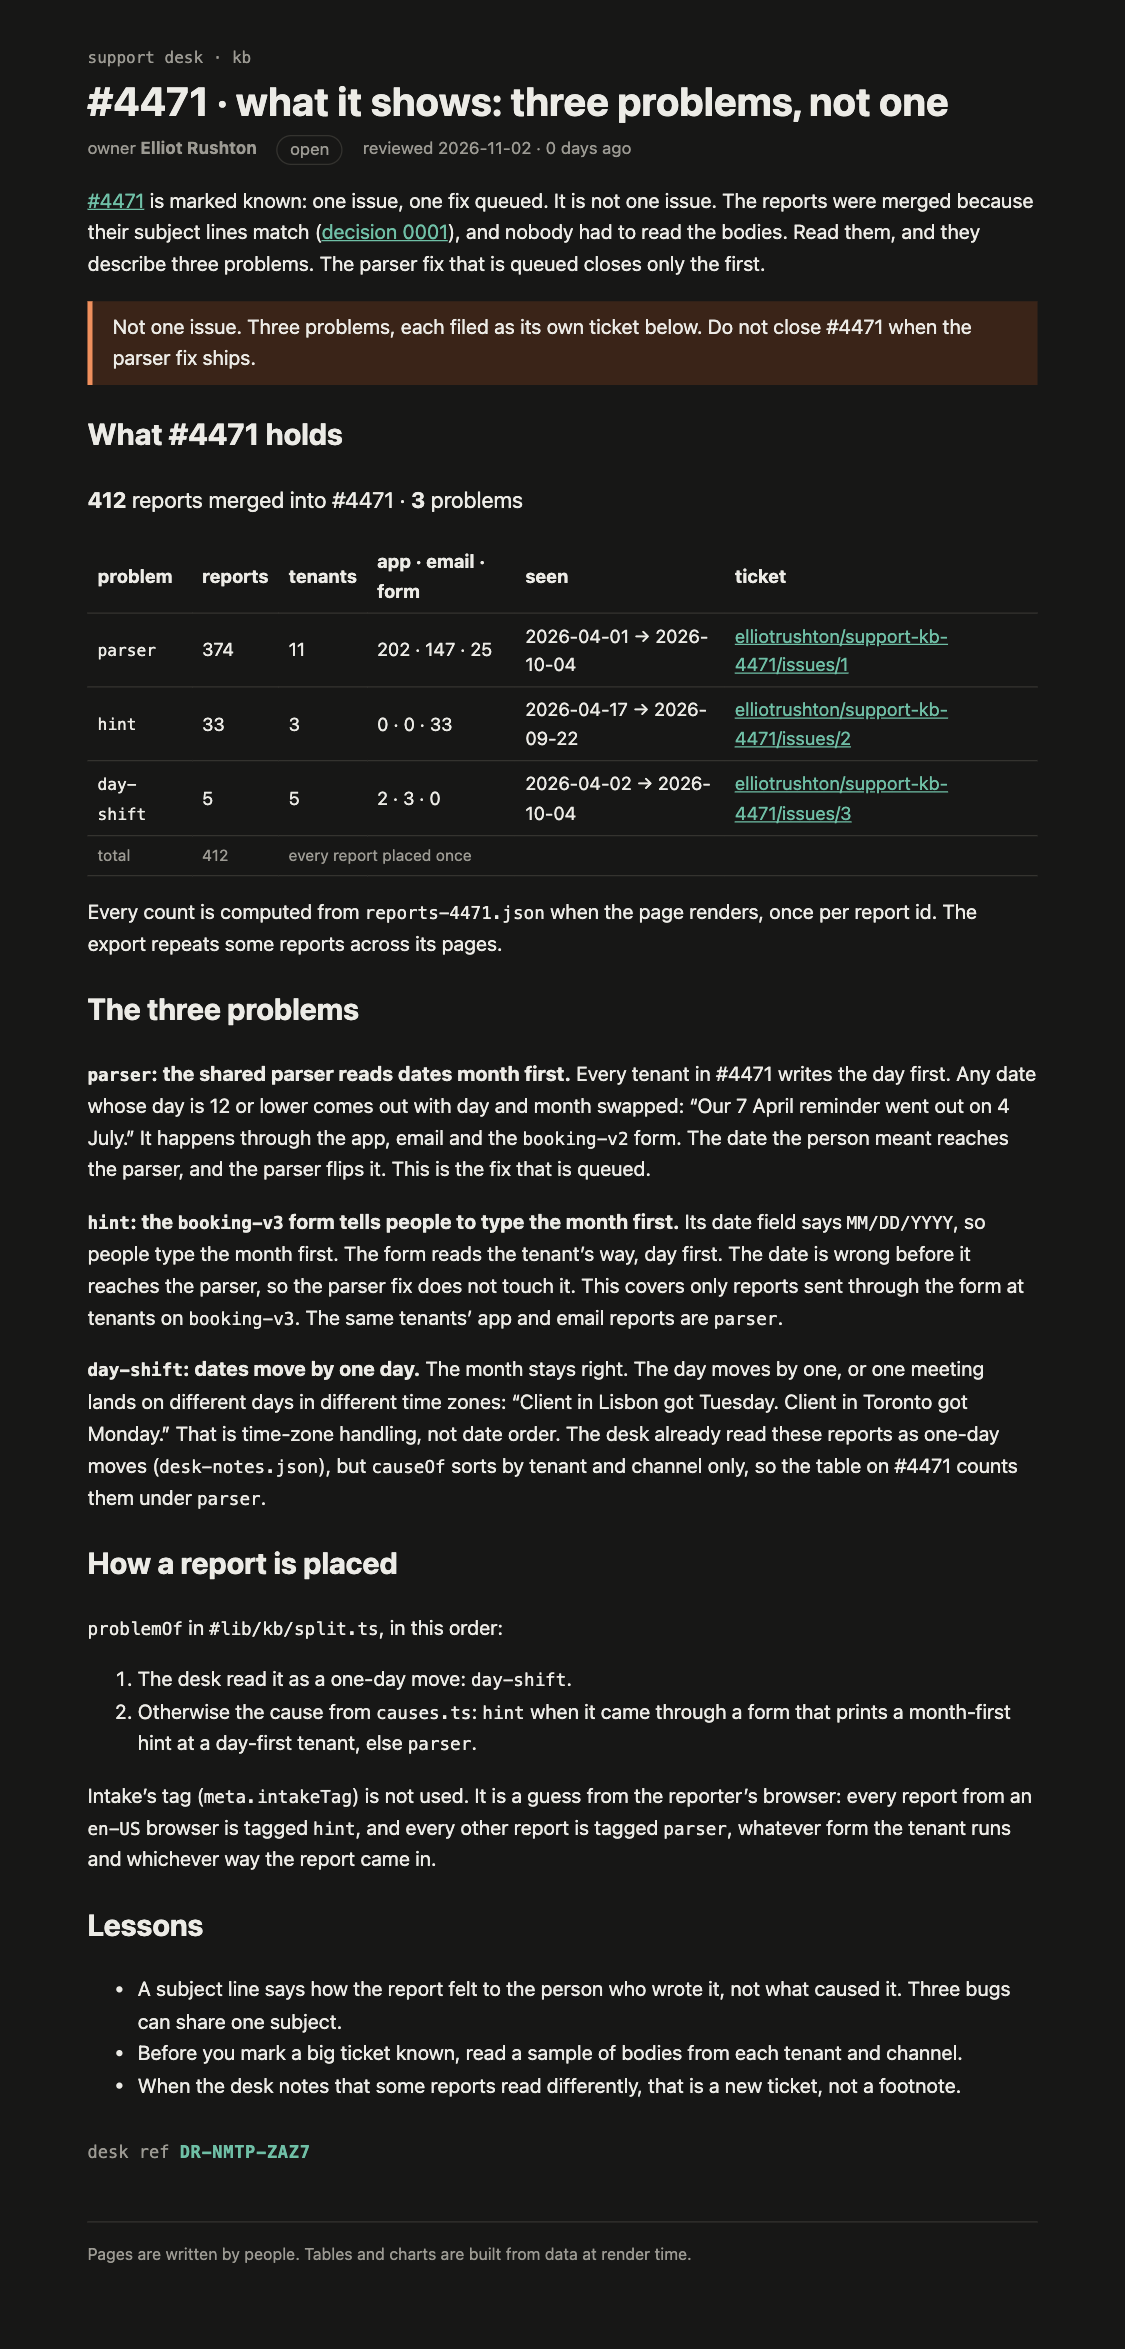
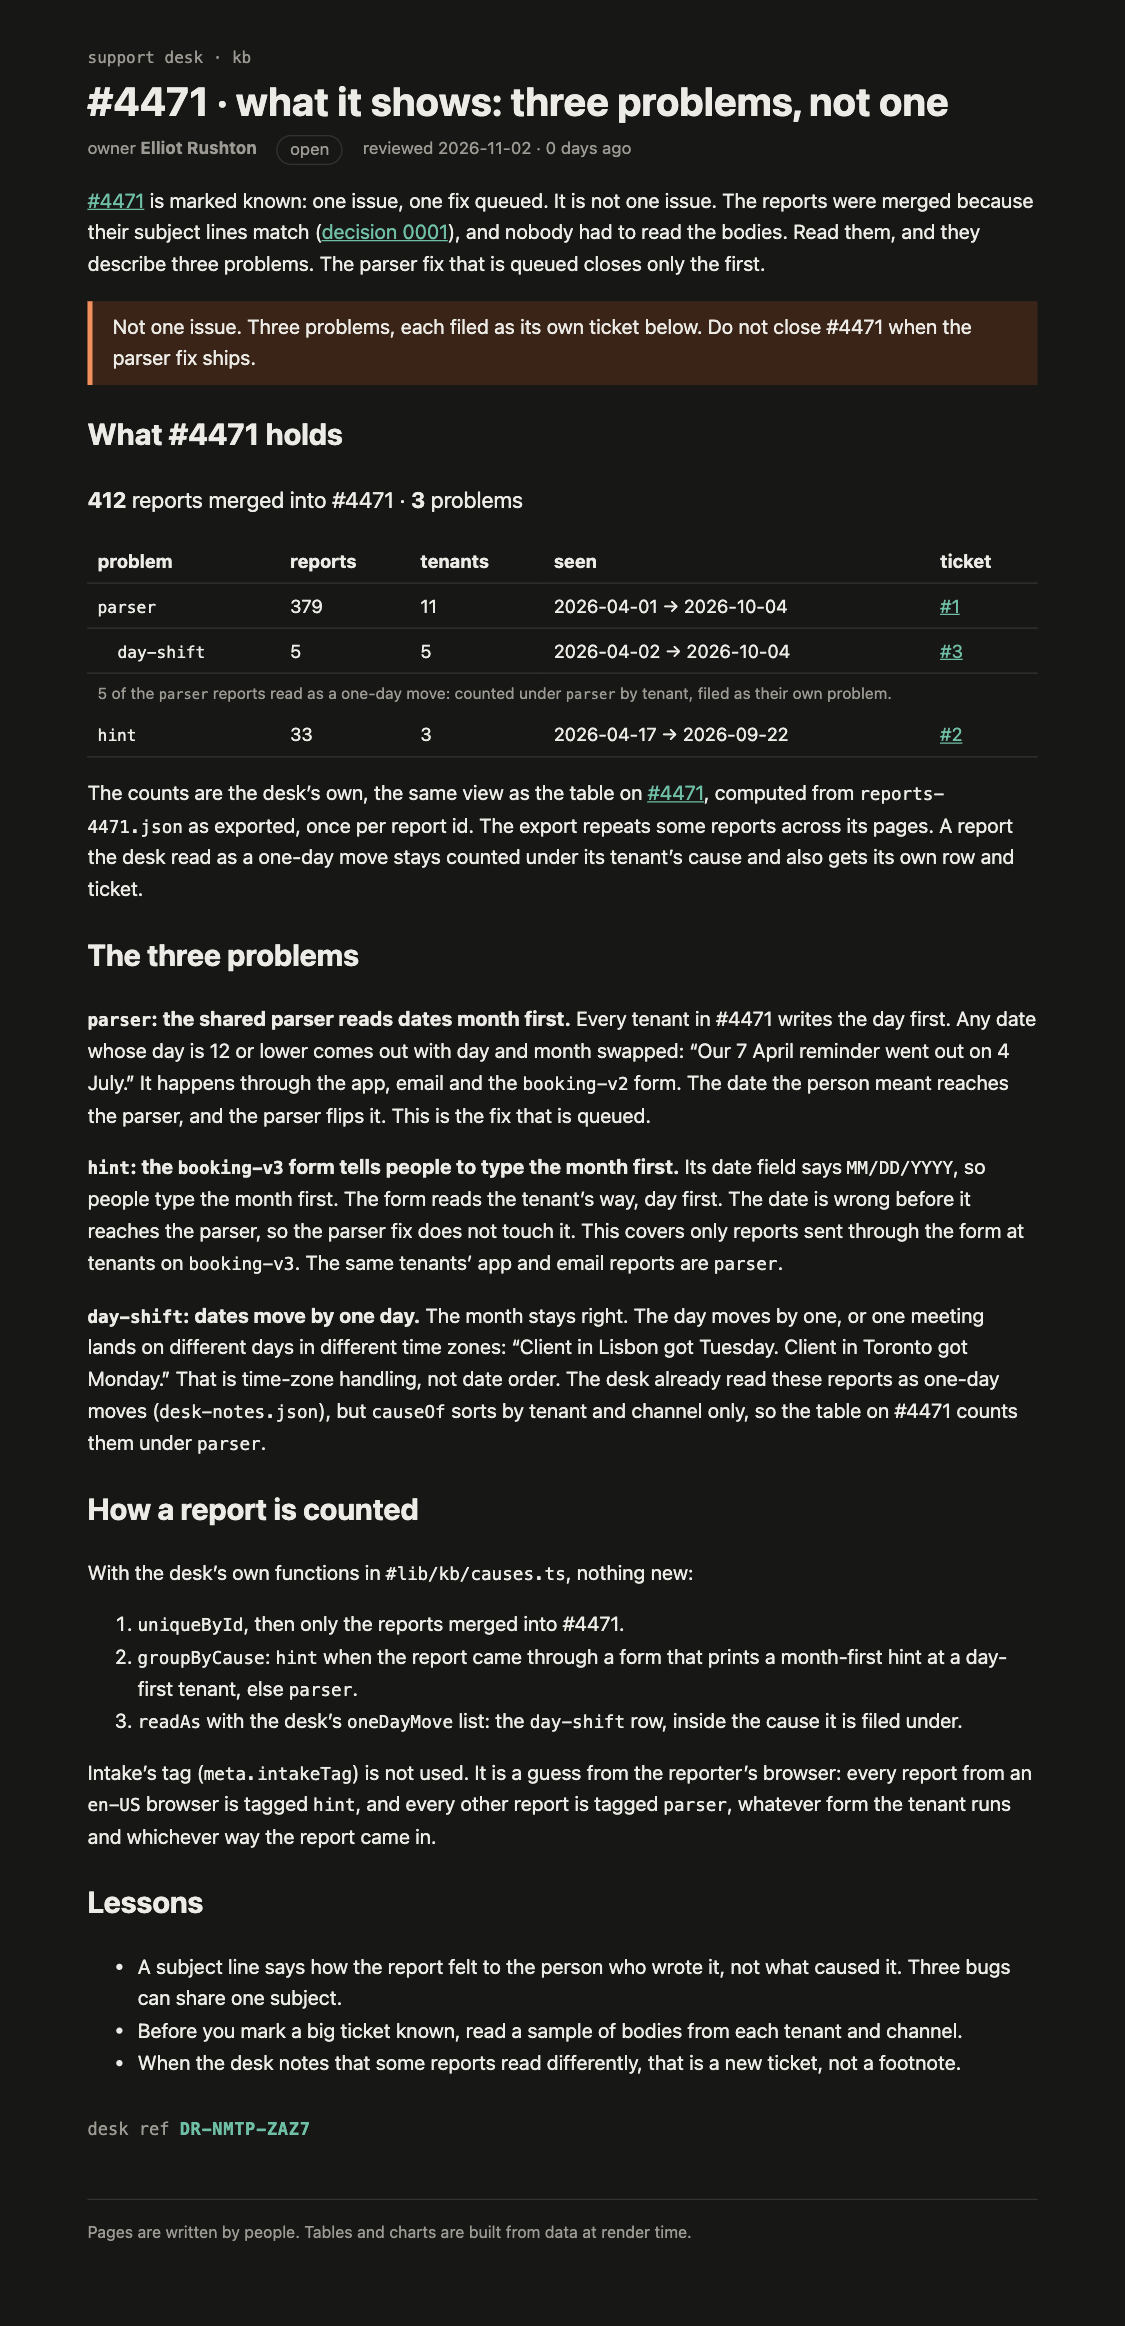
kb: count #4471 split with the desk's own view (groupByCause + readAs)

diff --git a/rendered/kb/incidents/4471/split.html b/rendered/kb/incidents/4471/split.html
@@ -2,18 +2,20 @@
 <html lang="en"><head><meta charset="utf-8" /><meta name="viewport" content="width=device-width, initial-scale=1" /><!--1ix7ub5--><!----><title>#4471 · what it shows: three problems, not one · support kb</title>
 		<style>:root{--bg: #fbfaf7;--fg: #1d1d1b;--muted: #6b6a66;--line: #e3e0d8;--accent: #2f6f5e;--warn: #b4501f;--warn-bg: #fbeee6;--note-bg: #eef5f2;--mono: ui-monospace, "Cascadia Code", Menlo, monospace}@media(prefers-color-scheme:dark){:root{--bg: #171716;--fg: #ecebe6;--muted: #9c9a93;--line: #34332f;--accent: #6fbfa6;--warn: #f0905d;--warn-bg: #3a2418;--note-bg: #1d2c27}}body{margin:0;background:var(--bg);color:var(--fg);font:16px/1.6 system-ui,sans-serif}.kb table{border-collapse:collapse;width:100%;margin:1rem 0;font-size:.92rem}.kb th,.kb td{border-bottom:1px solid var(--line);padding:.35rem .5rem;text-align:left}.kb code{font-family:var(--mono);font-size:.88em}.kb a{color:var(--accent)}.kb.svelte-1ix7ub5{max-width:760px;margin:0 auto;padding:2rem 16px 4rem}.crumb.svelte-1ix7ub5{font:.8rem var(--mono);text-decoration:none;color:var(--muted)}h1.svelte-1ix7ub5{margin:.25rem 0 .5rem;line-height:1.2}.meta.svelte-1ix7ub5{display:flex;flex-wrap:wrap;gap:.5rem 1rem;color:var(--muted);font-size:.85rem;margin:0}.status.svelte-1ix7ub5{border:1px solid var(--line);border-radius:99px;padding:0 .6rem}.stale.svelte-1ix7ub5{color:var(--warn);font-weight:600}.banner.svelte-1ix7ub5{background:var(--warn-bg);color:var(--warn);padding:.6rem 1rem;border-radius:6px}footer.svelte-1ix7ub5{margin-top:3rem;color:var(--muted);font-size:.8rem;border-top:1px solid var(--line);padding-top:1rem}
 
-.sum.svelte-7o017f{font-size:1.1rem}.open.svelte-7o017f td:where(.svelte-7o017f){background:var(--warn-bg)}.open.svelte-7o017f td:where(.svelte-7o017f):last-child{color:var(--warn);font-weight:600}tfoot.svelte-7o017f td:where(.svelte-7o017f){color:var(--muted);font-size:.85em}.stamp.svelte-hm5ikm{margin:2rem 0 0;font:.85rem var(--mono);color:var(--muted)}.stamp.svelte-hm5ikm b:where(.svelte-hm5ikm){color:var(--accent);letter-spacing:.04em}.missing.svelte-hm5ikm{color:var(--warn)}
+.sum.svelte-7o017f{font-size:1.1rem}.sub.svelte-7o017f td:where(.svelte-7o017f):first-child{padding-left:1.5rem}.note.svelte-7o017f td:where(.svelte-7o017f){color:var(--muted);font-size:.85em;border-bottom:none}.stamp.svelte-hm5ikm{margin:2rem 0 0;font:.85rem var(--mono);color:var(--muted)}.stamp.svelte-hm5ikm b:where(.svelte-hm5ikm){color:var(--accent);letter-spacing:.04em}.missing.svelte-hm5ikm{color:var(--warn)}
 
 aside.svelte-153b67f{border-left:4px solid var(--accent);padding:.5rem 1rem;margin:1rem 0;background:var(--note-bg)}aside.warn.svelte-153b67f{border-color:var(--warn);background:var(--warn-bg)}
 </style>
 		<link href="../../../_app/immutable/assets/runbook.FVGxjHEe.css" rel="stylesheet" disabled media="(max-width: 0)">
-		<link href="../../../_app/immutable/assets/_page.rg442Xyv.css" rel="stylesheet" disabled media="(max-width: 0)">
+		<link href="../../../_app/immutable/assets/_page.D7jYtc0B.css" rel="stylesheet" disabled media="(max-width: 0)">
 		<link href="../../../_app/immutable/assets/Callout.CYsKicjj.css" rel="stylesheet" disabled media="(max-width: 0)"></head>
 <body><div style="display: contents"><!--[--><!--[0--><!--[--><!--[--><div class="kb svelte-1ix7ub5"><header><a class="crumb svelte-1ix7ub5" href="/kb">support desk · kb</a> <h1 class="svelte-1ix7ub5">#4471 · what it shows: three problems, not one</h1> <p class="meta svelte-1ix7ub5"><span>owner <b>Elliot Rushton</b></span> <span class="status open svelte-1ix7ub5">open</span> <span class="svelte-1ix7ub5">reviewed 2026-11-02 · 0 days ago</span></p></header> <!--[-1--><!--]--> <main><p><a href="/kb/incidents/4471">#4471</a> is marked known: one issue, one fix queued. It is not one issue. The
 reports were merged because their subject lines match (<a href="/kb/decisions/0001-dedupe-by-subject">decision 0001</a>),
 and nobody had to read the bodies. Read them, and they describe three problems. The parser fix
-that is queued closes only the first.</p> <aside class="warn svelte-153b67f"><!---->Not one issue. Three problems, each filed as its own ticket below. Do not close #4471 when the parser fix ships.<!----></aside><!----> <h2>What #4471 holds</h2> <p class="sum svelte-7o017f"><strong>412</strong> reports merged into #4471 · <strong>3</strong> problems</p> <table><thead><tr><th>problem</th><th>reports</th><th>tenants</th><th>app · email · form</th><th>seen</th><th>ticket</th></tr></thead><tbody><!--[--><tr class="svelte-7o017f"><td class="svelte-7o017f"><code>parser</code></td><td class="svelte-7o017f">374</td><td class="svelte-7o017f">11</td><td class="svelte-7o017f">202 · 147 · 25</td><td class="svelte-7o017f">2026-04-01 → 2026-10-04</td><td class="svelte-7o017f"><!--[0--><a href="https://github.com/elliotrushton/support-kb-4471/issues/1">elliotrushton/support-kb-4471/issues/1</a><!--]--></td></tr><tr class="svelte-7o017f"><td class="svelte-7o017f"><code>hint</code></td><td class="svelte-7o017f">33</td><td class="svelte-7o017f">3</td><td class="svelte-7o017f">0 · 0 · 33</td><td class="svelte-7o017f">2026-04-17 → 2026-09-22</td><td class="svelte-7o017f"><!--[0--><a href="https://github.com/elliotrushton/support-kb-4471/issues/2">elliotrushton/support-kb-4471/issues/2</a><!--]--></td></tr><tr class="svelte-7o017f"><td class="svelte-7o017f"><code>day-shift</code></td><td class="svelte-7o017f">5</td><td class="svelte-7o017f">5</td><td class="svelte-7o017f">2 · 3 · 0</td><td class="svelte-7o017f">2026-04-02 → 2026-10-04</td><td class="svelte-7o017f"><!--[0--><a href="https://github.com/elliotrushton/support-kb-4471/issues/3">elliotrushton/support-kb-4471/issues/3</a><!--]--></td></tr><!--]--></tbody><tfoot class="svelte-7o017f"><tr><td class="svelte-7o017f">total</td><td class="svelte-7o017f">412</td><td colspan="4" class="svelte-7o017f">every report placed once</td></tr></tfoot></table><!----> <p>Every count is computed from <code>reports-4471.json</code> when the page renders, once per report id. The
-export repeats some reports across its pages.</p> <h2>The three problems</h2> <p><strong><code>parser</code>: the shared parser reads dates month first.</strong> Every tenant in #4471 writes the day
+that is queued closes only the first.</p> <aside class="warn svelte-153b67f"><!---->Not one issue. Three problems, each filed as its own ticket below. Do not close #4471 when the parser fix ships.<!----></aside><!----> <h2>What #4471 holds</h2> <p class="sum svelte-7o017f"><strong>412</strong> reports merged into #4471 · <strong>3</strong> problems</p> <table><thead><tr><th>problem</th><th>reports</th><th>tenants</th><th>seen</th><th>ticket</th></tr></thead><tbody><!--[--><tr><td><code>parser</code></td><td>379</td><td>11</td><td>2026-04-01 → 2026-10-04</td><td><!--[0--><!--[0--><a href="https://github.com/elliotrushton/support-kb-4471/issues/1">#1</a><!--]--><!--]--></td></tr> <!--[0--><tr class="sub svelte-7o017f"><td class="svelte-7o017f"><code>day-shift</code></td><td class="svelte-7o017f">5</td><td class="svelte-7o017f">5</td><td class="svelte-7o017f">2026-04-02 → 2026-10-04</td><td class="svelte-7o017f"><!--[0--><a href="https://github.com/elliotrushton/support-kb-4471/issues/3">#3</a><!--]--><!----></td></tr> <tr class="note svelte-7o017f"><td colspan="5" class="svelte-7o017f">5 of the <code>parser</code> reports read as a one-day move: counted under <code>parser</code> by tenant, filed as their own problem.</td></tr><!--]--><tr><td><code>hint</code></td><td>33</td><td>3</td><td>2026-04-17 → 2026-09-22</td><td><!--[0--><!--[0--><a href="https://github.com/elliotrushton/support-kb-4471/issues/2">#2</a><!--]--><!--]--></td></tr> <!--[-1--><!--]--><!--]--></tbody></table><!----> <p>The counts are the desk’s own, the same view as the table on <a href="/kb/incidents/4471">#4471</a>, computed
+from <code>reports-4471.json</code> as exported, once per report id. The export repeats some reports across its
+pages. A report the desk read as a one-day move stays counted under its tenant’s cause and also
+gets its own row and ticket.</p> <h2>The three problems</h2> <p><strong><code>parser</code>: the shared parser reads dates month first.</strong> Every tenant in #4471 writes the day
 first. Any date whose day is 12 or lower comes out with day and month swapped: “Our 7 April
 reminder went out on 4 July.” It happens through the app, email and the <code>booking-v2</code> form. The
 date the person meant reaches the parser, and the parser flips it. This is the fix that is queued.</p> <p><strong><code>hint</code>: the <code>booking-v3</code> form tells people to type the month first.</strong> Its date field says <code>MM/DD/YYYY</code>, so people type the month first. The form reads the tenant’s way, day first. The date
@@ -23,8 +25,9 @@ reports are <code>parser</code>.</p> <p><strong><code>day-shift</code>: dates mo
 meeting lands on different days in different time zones: “Client in Lisbon got Tuesday. Client in
 Toronto got Monday.” That is time-zone handling, not date order. The desk already read these
 reports as one-day moves (<code>desk-notes.json</code>), but <code>causeOf</code> sorts by tenant and channel only, so
-the table on #4471 counts them under <code>parser</code>.</p> <h2>How a report is placed</h2> <p><code>problemOf</code> in <code>#lib/kb/split.ts</code>, in this order:</p> <ol><li>The desk read it as a one-day move: <code>day-shift</code>.</li> <li>Otherwise the cause from <code>causes.ts</code>: <code>hint</code> when it came through a form that prints a
-month-first hint at a day-first tenant, else <code>parser</code>.</li></ol> <p>Intake’s tag (<code>meta.intakeTag</code>) is not used. It is a guess from the reporter’s browser: every
+the table on #4471 counts them under <code>parser</code>.</p> <h2>How a report is counted</h2> <p>With the desk’s own functions in <code>#lib/kb/causes.ts</code>, nothing new:</p> <ol><li><code>uniqueById</code>, then only the reports merged into #4471.</li> <li><code>groupByCause</code>: <code>hint</code> when the report came through a form that prints a month-first hint at
+a day-first tenant, else <code>parser</code>.</li> <li><code>readAs</code> with the desk’s <code>oneDayMove</code> list: the <code>day-shift</code> row, inside the cause it is
+filed under.</li></ol> <p>Intake’s tag (<code>meta.intakeTag</code>) is not used. It is a guess from the reporter’s browser: every
 report from an <code>en-US</code> browser is tagged <code>hint</code>, and every other report is tagged <code>parser</code>,
 whatever form the tenant runs and whichever way the report came in.</p> <h2>Lessons</h2> <ul><li>A subject line says how the report felt to the person who wrote it, not what caused it. Three
 bugs can share one subject.</li> <li>Before you mark a big ticket known, read a sample of bodies from each tenant and channel.</li> <li>When the desk notes that some reports read differently, that is a new ticket, not a footnote.</li></ul> <!--[0--><p class="stamp svelte-hm5ikm">desk ref <b class="svelte-hm5ikm">DR-NMTP-ZAZ7</b></p><!--]--><!----><!----></main> <footer class="svelte-1ix7ub5">Pages are written by people. Tables and charts are built from data at render time.</footer></div><!--]--><!----><!--]--><!--]--> <!--[-1--><!--]--><!--]--></div></body></html>

diff --git a/src/lib/kb/SplitTable.svelte b/src/lib/kb/SplitTable.svelte
@@ -1,48 +1,63 @@
 <script lang="ts">
   import reports from '#lib/data/reports-4471.json';
   import notes from '#lib/data/desk-notes.json';
-  import { splitTicket, type Problem } from '#lib/kb/split';
-  import type { Report } from '#lib/kb/causes';
+  import { groupByCause, readAs, uniqueById, type Cause, type Report } from '#lib/kb/causes';
   import { tenantOf } from '#lib/kb/locales';
 
-  // tickets: where each problem is now filed, e.g. { parser: 'https://…/issues/1' }.
+  // The desk's own count (CauseTable's view), with each problem's new ticket next to it.
+  // Reports the desk read as a one-day move stay counted under their cause and get a row of their own below it.
+  type Problem = Cause | 'day-shift';
   let { ticket, tickets = {} }: { ticket: number; tickets?: Partial<Record<Problem, string>> } = $props();
 
-  const split = $derived(splitTicket(reports as Report[], ticket, tenantOf, notes.oneDayMove));
-  const filed = $derived(split.groups.reduce((n, g) => n + g.reports.length, 0));
+  const merged = $derived(uniqueById(reports as Report[]).filter((r) => r.mergedInto === ticket));
+  const groups = $derived(groupByCause(merged, tenantOf));
+  const shifted = $derived(merged.filter((r) => notes.oneDayMove.includes(r.id)));
+  const seen = (rs: Report[]) => {
+    const days = rs.map((r) => r.receivedAt.slice(0, 10)).sort();
+    return `${days[0]} → ${days[days.length - 1]}`;
+  };
 </script>
 
 <p class="sum">
-  <strong>{split.merged.length}</strong> reports merged into #{ticket} ·
-  <strong>{split.groups.length}</strong>
-  {split.groups.length === 1 ? 'problem' : 'problems'}
+  <strong>{merged.length}</strong> reports merged into #{ticket} ·
+  <strong>{groups.length + (shifted.length ? 1 : 0)}</strong> problems
 </p>
+
+{#snippet link(problem: Problem)}
+  {@const href = tickets[problem]}
+  {#if href}<a {href}>#{href.split('/').pop()}</a>{:else}none yet{/if}
+{/snippet}
 
 <table>
   <thead>
-    <tr><th>problem</th><th>reports</th><th>tenants</th><th>app · email · form</th><th>seen</th><th>ticket</th></tr>
+    <tr><th>problem</th><th>reports</th><th>tenants</th><th>seen</th><th>ticket</th></tr>
   </thead>
   <tbody>
-    {#each split.groups as g (g.problem)}
-      {@const href = g.problem === 'unplaced' ? undefined : tickets[g.problem]}
-      <tr class:open={!href}>
-        <td><code>{g.problem}</code></td>
+    {#each groups as g (g.cause)}
+      <tr>
+        <td><code>{g.cause}</code></td>
         <td>{g.reports.length}</td>
-        <td>{g.tenants.length}</td>
-        <td>{g.channels.app} · {g.channels.email} · {g.channels.form}</td>
-        <td>{g.firstSeen} → {g.lastSeen}</td>
-        <td>{#if href}<a {href}>{href.replace(/^https:\/\/github\.com\//, '')}</a>{:else}none yet{/if}</td>
+        <td>{g.tenants}</td>
+        <td>{seen(g.reports)}</td>
+        <td>{#if g.cause !== 'unplaced'}{@render link(g.cause)}{:else}none yet{/if}</td>
       </tr>
+      {@const moved = readAs(g, notes.oneDayMove)}
+      {#if moved}
+        <tr class="sub">
+          <td><code>day-shift</code></td>
+          <td>{moved}</td>
+          <td>{new Set(shifted.map((r) => r.tenant)).size}</td>
+          <td>{seen(shifted)}</td>
+          <td>{@render link('day-shift')}</td>
+        </tr>
+        <tr class="note"><td colspan="5">{moved} of the <code>{g.cause}</code> reports read as a one-day move: counted under <code>{g.cause}</code> by tenant, filed as their own problem.</td></tr>
+      {/if}
     {/each}
   </tbody>
-  <tfoot>
-    <tr><td>total</td><td>{filed}</td><td colspan="4">{filed === split.merged.length ? 'every report placed once' : `${split.merged.length - filed} not placed`}</td></tr>
-  </tfoot>
 </table>
 
 <style>
   .sum { font-size: 1.1rem; }
-  .open td { background: var(--warn-bg); }
-  .open td:last-child { color: var(--warn); font-weight: 600; }
-  tfoot td { color: var(--muted); font-size: 0.85em; }
+  .sub td:first-child { padding-left: 1.5rem; }
+  .note td { color: var(--muted); font-size: 0.85em; border-bottom: none; }
 </style>
